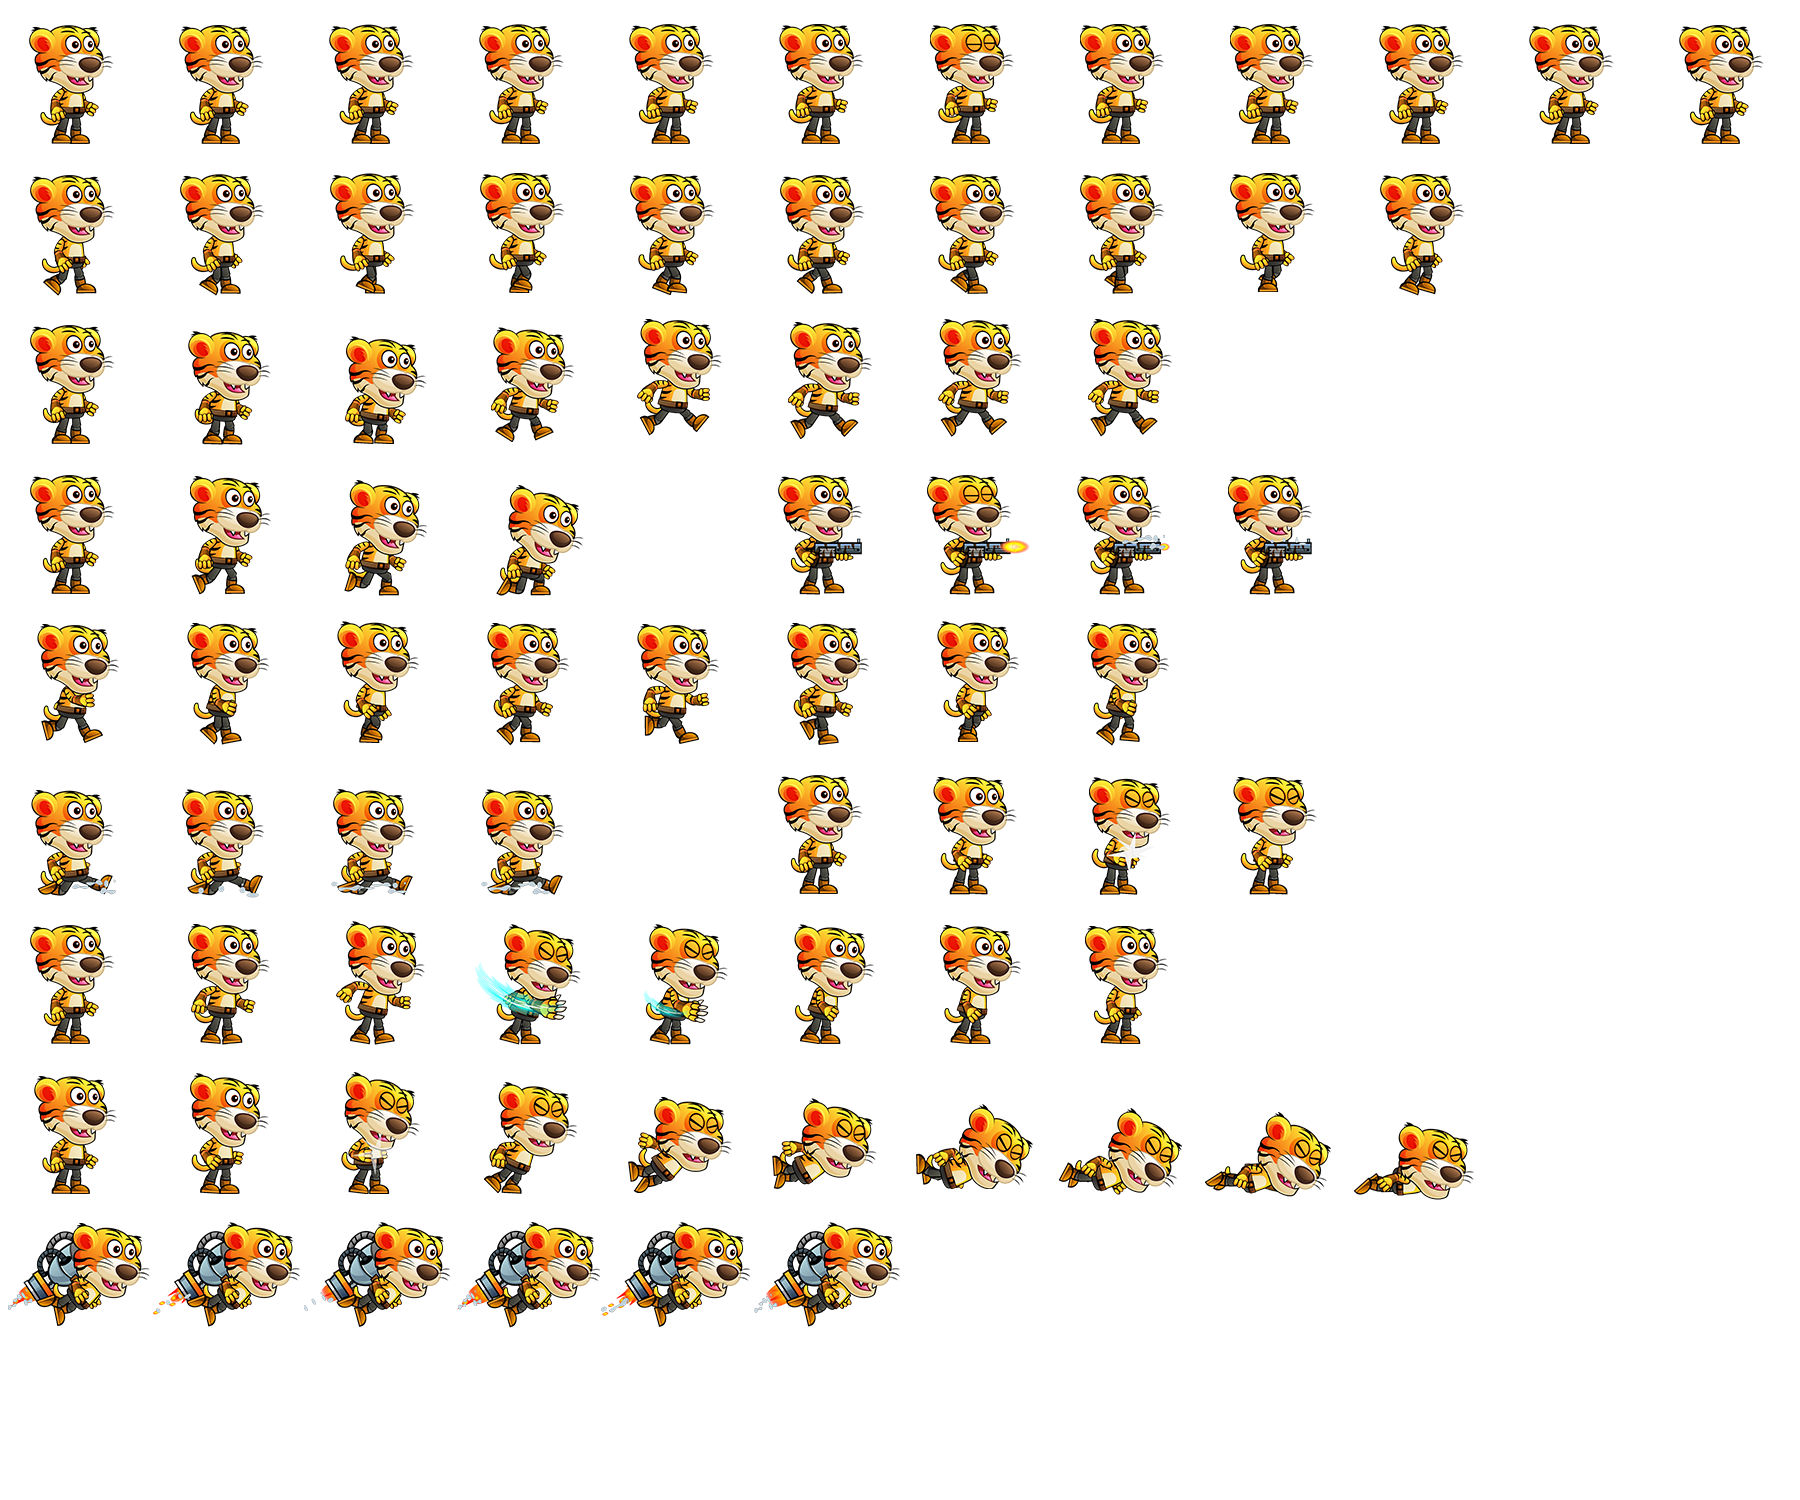
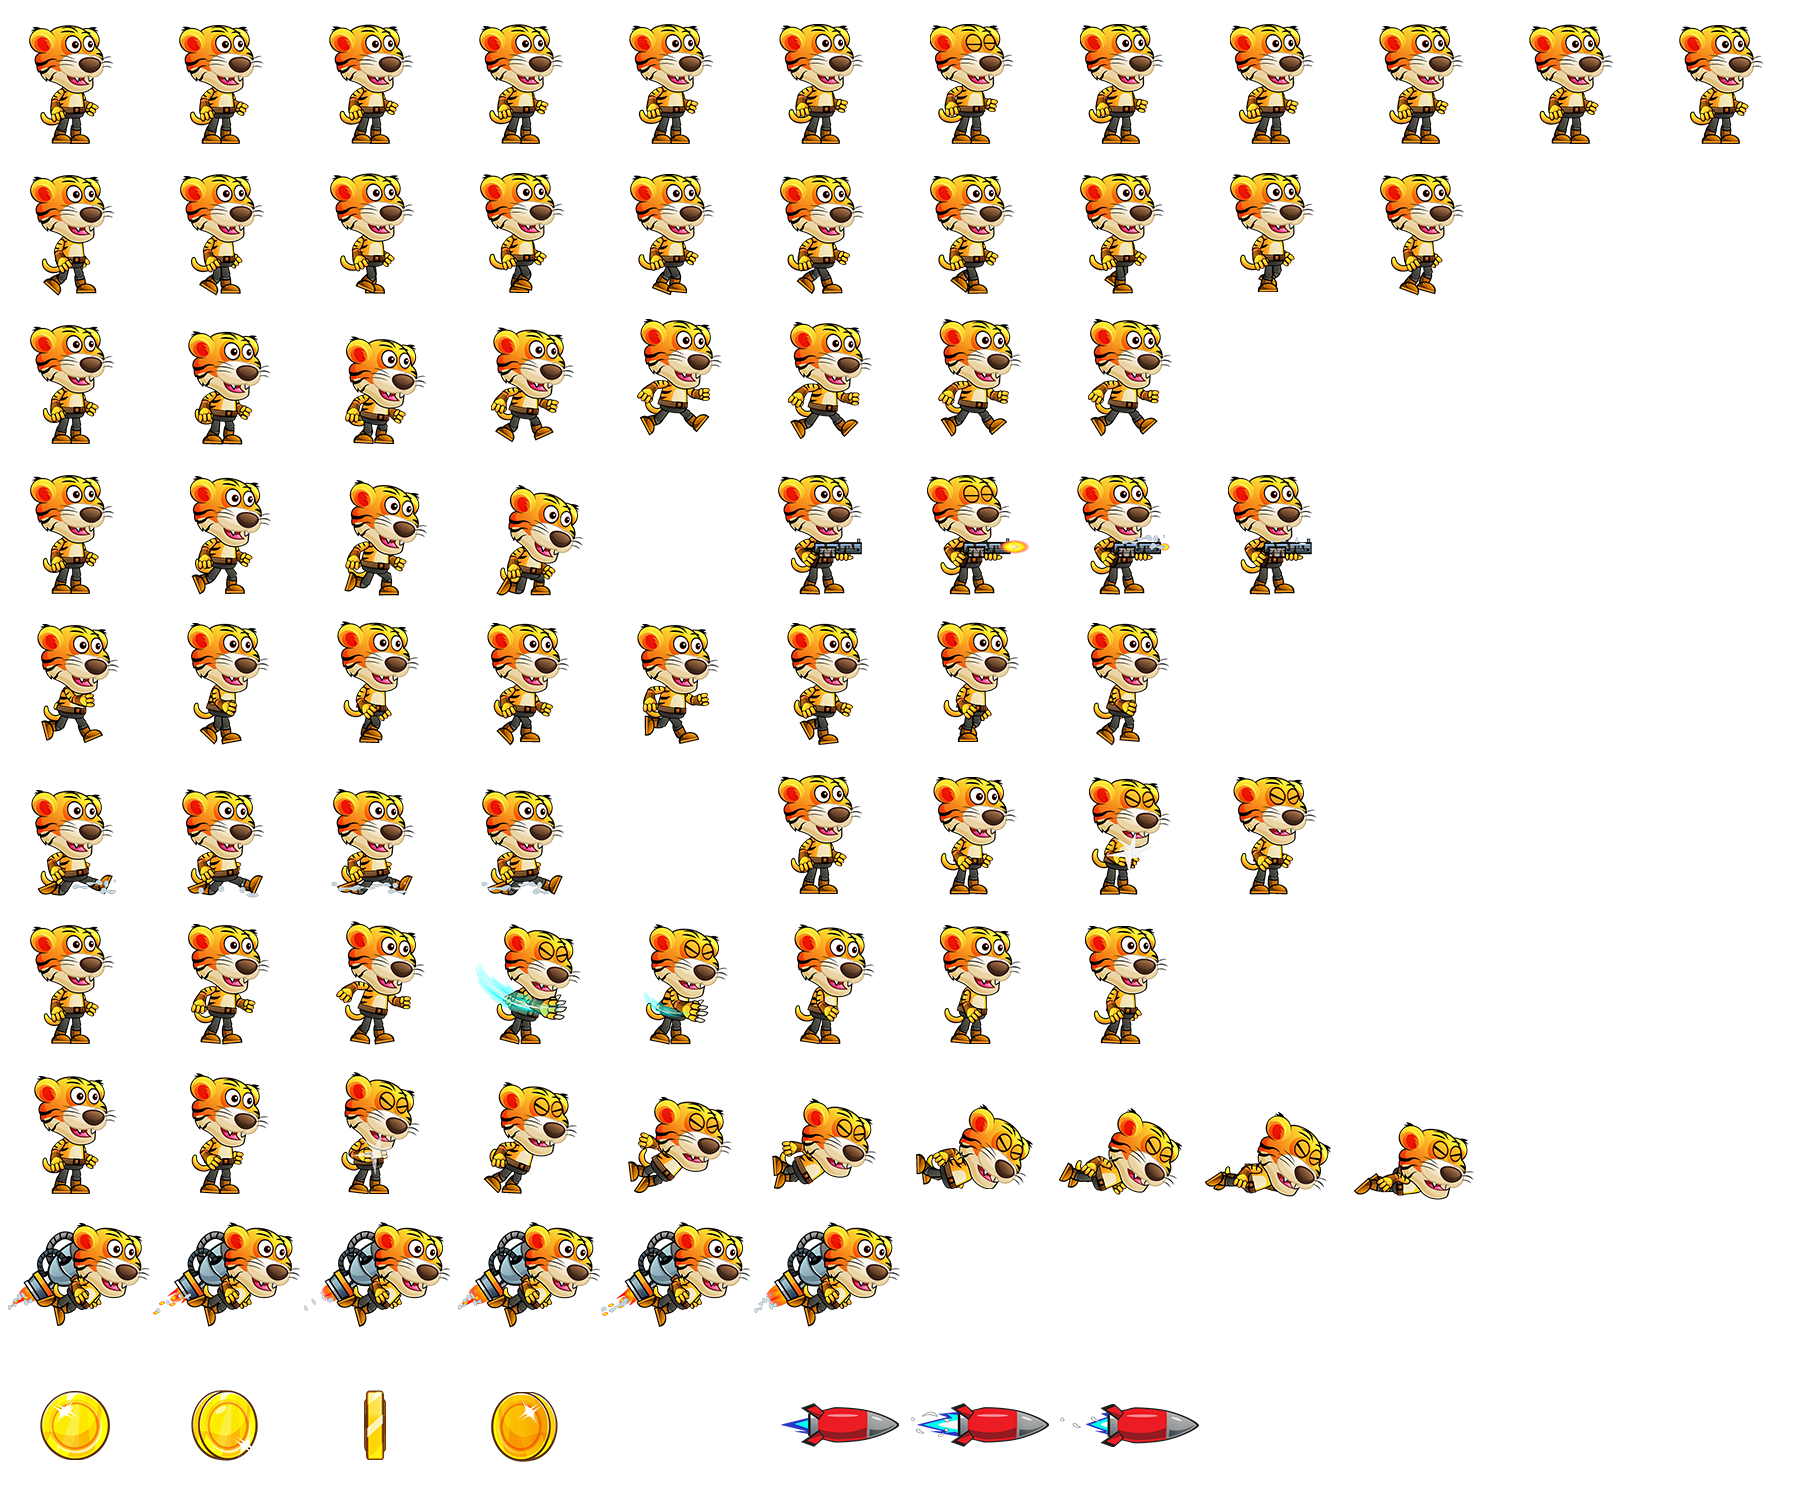
Add Coins

diff --git a/Happy-Tiger/Coin.js b/Happy-Tiger/Coin.js
@@ -1,0 +1,64 @@
+"use strict";
+var HappyTiger;
+(function (HappyTiger) {
+    var ƒ = FudgeCore;
+    var ƒAid = FudgeAid;
+    let ACTION;
+    (function (ACTION) {
+        ACTION["COINFLIP"] = "Coinflip";
+    })(ACTION = HappyTiger.ACTION || (HappyTiger.ACTION = {}));
+    class Coin extends ƒAid.NodeSprite {
+        constructor(_name = "Coin") {
+            super(_name);
+            this.speed = ƒ.Vector3.ZERO();
+            this.update = (_event) => {
+                let timeFrame = ƒ.Loop.timeFrameGame / 1000;
+                this.speed.y += Coin.gravity.y * timeFrame;
+                let distance = ƒ.Vector3.SCALE(this.speed, timeFrame);
+                this.cmpTransform.local.translate(distance);
+                this.checkCollision();
+            };
+            this.addComponent(new ƒ.ComponentTransform());
+            this.show(ACTION.COINFLIP);
+            ƒ.Loop.addEventListener("loopFrame" /* LOOP_FRAME */, this.update);
+        }
+        static generateSprites(_spritesheet) {
+            Coin.animations = {};
+            let sprite = new ƒAid.SpriteSheetAnimation(ACTION.COINFLIP, _spritesheet);
+            sprite.generateByGrid(ƒ.Rectangle.GET(75, 1420, 150, 150), 4, ƒ.Vector2.ZERO(), 200, ƒ.ORIGIN2D.BOTTOMCENTER);
+            Coin.animations[ACTION.COINFLIP] = sprite;
+            sprite.frames.forEach(element => {
+                element.mtxPivot.rotateX(180);
+            });
+        }
+        show(_action) {
+            this.setAnimation(Coin.animations[_action]);
+        }
+        act(_action, _direction) {
+            switch (_action) {
+                case ACTION.COINFLIP:
+                    this.speed.x = 0;
+                    break;
+            }
+            if (_action == this.action)
+                return;
+            this.action = _action;
+            this.show(_action);
+        }
+        checkCollision() {
+            for (let floor of HappyTiger.level.getChildren()) {
+                let rect = floor.getRectWorld();
+                let hit = rect.isInside(this.cmpTransform.local.translation.toVector2());
+                if (hit) {
+                    let translation = this.cmpTransform.local.translation;
+                    translation.y = rect.y;
+                    this.cmpTransform.local.translation = translation;
+                    this.speed.y = 0;
+                }
+            }
+        }
+    }
+    Coin.gravity = ƒ.Vector2.Y(-3);
+    HappyTiger.Coin = Coin;
+})(HappyTiger || (HappyTiger = {}));
+//# sourceMappingURL=Coin.js.map

diff --git a/Happy-Tiger/Coin.ts b/Happy-Tiger/Coin.ts
@@ -1,0 +1,75 @@
+namespace HappyTiger {
+    import ƒ = FudgeCore;
+    import ƒAid = FudgeAid;
+  
+    export enum ACTION {
+      COINFLIP = "Coinflip"
+    }
+
+
+    export class Coin extends ƒAid.NodeSprite {
+    private static animations: ƒAid.SpriteSheetAnimations;  
+    private action: ACTION;
+    public speed: ƒ.Vector3 = ƒ.Vector3.ZERO();
+    private static gravity: ƒ.Vector2 = ƒ.Vector2.Y(-3);
+
+    
+    constructor(_name: string = "Coin") {
+        super(_name);
+        this.addComponent(new ƒ.ComponentTransform());
+        this.show(ACTION.COINFLIP);
+        ƒ.Loop.addEventListener(ƒ.EVENT.LOOP_FRAME, this.update);
+    }
+
+    public static generateSprites(_spritesheet: ƒ.CoatTextured): void {
+        Coin.animations = {};
+        let sprite: ƒAid.SpriteSheetAnimation = new ƒAid.SpriteSheetAnimation(ACTION.COINFLIP, _spritesheet);
+        sprite.generateByGrid(ƒ.Rectangle.GET(75, 1420, 150, 150), 4, ƒ.Vector2.ZERO(), 200, ƒ.ORIGIN2D.BOTTOMCENTER);
+        Coin.animations[ACTION.COINFLIP] = sprite;
+        sprite.frames.forEach(element => {
+          element.mtxPivot.rotateX(180);
+        });
+    }
+
+    public show(_action: ACTION): void {
+        this.setAnimation(<ƒAid.SpriteSheetAnimation>Coin.animations[_action]);
+    }
+
+    public act(_action: ACTION, _direction?: DIRECTION): void {
+        switch (_action) {
+          case ACTION.COINFLIP:
+            this.speed.x = 0;
+            break;
+        }
+        if (_action == this.action)
+        return;
+
+        this.action = _action;
+        this.show(_action);
+    }
+
+    private update = (_event: ƒ.Eventƒ): void => {
+        let timeFrame: number = ƒ.Loop.timeFrameGame / 1000;
+        this.speed.y += Coin.gravity.y * timeFrame;
+        let distance: ƒ.Vector3 = ƒ.Vector3.SCALE(this.speed, timeFrame);
+        this.cmpTransform.local.translate(distance);
+        this.checkCollision();
+    }
+
+    private checkCollision(): void {
+        for (let floor of level.getChildren()) {
+          let rect: ƒ.Rectangle = (<Floor>floor).getRectWorld();
+          let hit: boolean = rect.isInside(this.cmpTransform.local.translation.toVector2());
+          if (hit) {
+            let translation: ƒ.Vector3 = this.cmpTransform.local.translation;
+            translation.y = rect.y;
+            this.cmpTransform.local.translation = translation;
+            this.speed.y = 0;
+          }
+        }
+      }
+
+
+
+    }
+}

diff --git a/Happy-Tiger/Main.js b/Happy-Tiger/Main.js
@@ -5,21 +5,24 @@ var HappyTiger;
     HappyTiger.ƒAid = FudgeAid;
     window.addEventListener("load", test);
     let tiger;
+    let coin;
     function test() {
         let canvas = document.querySelector("canvas");
         let crc2 = canvas.getContext("2d");
         let img = document.querySelector("img");
         let spritesheet = HappyTiger.ƒAid.createSpriteSheet("Tiger", img);
         HappyTiger.Tiger.generateSprites(spritesheet);
+        HappyTiger.Coin.generateSprites(spritesheet);
         HappyTiger.game = new HappyTiger.ƒ.Node("Game");
         tiger = new HappyTiger.Tiger("Tiger");
+        coin = new HappyTiger.Coin("Coin");
         HappyTiger.level = createLevel();
         HappyTiger.game.appendChild(HappyTiger.level);
         HappyTiger.game.appendChild(tiger);
         for (let i = 0; i < 5; i++) {
-            let tiger = new HappyTiger.Tiger();
-            tiger.mtxLocal.translation = new HappyTiger.ƒ.Vector3(HappyTiger.ƒ.Random.default.getRange(-1, 1), HappyTiger.ƒ.Random.default.getRange(-1, 1));
-            HappyTiger.game.appendChild(tiger);
+            let coin = new HappyTiger.Coin();
+            coin.mtxLocal.translation = new HappyTiger.ƒ.Vector3(HappyTiger.ƒ.Random.default.getRange(-1, 1), HappyTiger.ƒ.Random.default.getRange(-1, 1));
+            HappyTiger.game.appendChild(coin);
         }
         let cmpCamera = new HappyTiger.ƒ.ComponentCamera();
         cmpCamera.pivot.translateZ(5);
@@ -65,6 +68,7 @@ var HappyTiger;
             tiger.act(HappyTiger.ACTION.RUN);
         else
             tiger.act(HappyTiger.ACTION.IDLE);
+        //coin.act(ACTION.COINFLIP);
     }
     function createLevel() {
         let level = new HappyTiger.ƒ.Node("Level");

diff --git a/Happy-Tiger/Main.ts b/Happy-Tiger/Main.ts
@@ -8,6 +8,7 @@ namespace HappyTiger {
   export let game: ƒ.Node;
   export let level: ƒ.Node;
   let tiger: Tiger;
+  let coin: Coin;
 
   function test(): void {
     let canvas: HTMLCanvasElement = document.querySelector("canvas");
@@ -15,18 +16,20 @@ namespace HappyTiger {
     let img: HTMLImageElement = document.querySelector("img");
     let spritesheet: ƒ.CoatTextured = ƒAid.createSpriteSheet("Tiger", img);
     Tiger.generateSprites(spritesheet);
+    Coin.generateSprites(spritesheet);
     
 
     game = new ƒ.Node("Game");
     tiger = new Tiger("Tiger");
+    coin = new Coin("Coin");
     level = createLevel();
     game.appendChild(level);
     game.appendChild(tiger);
 
     for (let i: number = 0; i < 5; i++) {
-      let tiger: Tiger = new Tiger();
-      tiger.mtxLocal.translation = new ƒ.Vector3(ƒ.Random.default.getRange(-1, 1), ƒ.Random.default.getRange(-1, 1));
-      game.appendChild(tiger);
+      let coin: Coin = new Coin();
+      coin.mtxLocal.translation = new ƒ.Vector3(ƒ.Random.default.getRange(-1, 1), ƒ.Random.default.getRange(-1, 1));
+      game.appendChild(coin);
     }
 
     let cmpCamera: ƒ.ComponentCamera = new ƒ.ComponentCamera();
@@ -76,6 +79,8 @@ namespace HappyTiger {
       tiger.act(ACTION.RUN);
     else
       tiger.act(ACTION.IDLE);
+    
+    //coin.act(ACTION.COINFLIP);
   }
 
   function createLevel(): ƒ.Node {

diff --git a/Happy-Tiger/index.html b/Happy-Tiger/index.html
@@ -7,6 +7,7 @@
   <title>Plattformer 2D</title>
   <script src="../FudgeCore/FudgeCore.js"></script>
   <script src="../FudgeAid/FudgeAid.js"></script>
+  <script src="Coin.js"></script>
   <script src="Tiger.js"></script>
   <script src="Floor.js"></script>
   <script src="Main.js"></script>
